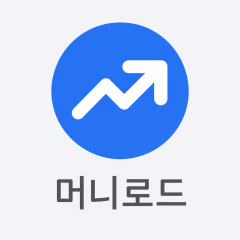
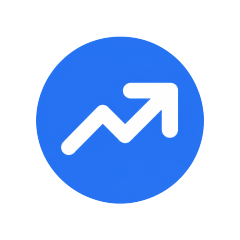
feat(news): 기본 썸네일을 투명배경 로고만으로 교체 (RFC 0006 §4-1-1)
원본을 그대로 줄여 넣었더니 밝은 회색 배경이 이미지에 구워진 채 들어가
다크 모드에서도 밝은 사각형으로 보였고, 아래쪽 "머니로드" 워드마크까지
78px 칸에 눌려 들어갔다. 배경을 투명으로, 로고 마크만, 정중앙에 오도록
다시 만들었다.

기존 에셋 재활용을 먼저 검토했으나 android-icon-foreground.png는 흰색
로고라 밝은 배경에서 보이지 않아 쓸 수 없었다. 원본에서 직접 추출했다.

단순 색상 제거는 쓸 수 없었다. 원 안의 흰 화살표(#FFFFFF)와 배경(#F3F4F8)이
너무 가까워 화살표까지 반투명해지기 때문이다. 그래서 반지름으로 나눴다 —
92% 안쪽은 알파를 건드리지 않아 화살표를 보호하고, 그 바깥에서만 배경색과의
색거리로 알파를 계산해 원본의 안티에일리어싱을 그대로 살렸다. 아래 글씨는
원의 외접 정사각형으로 크롭하면서 자동으로 빠진다(원은 y≤831, 글씨는 y≥919).

검증: 네 모서리 알파 0, 여백 좌우상하 36/36/36/36(정중앙), 흰 화살표 알파
255, 원 테두리 알파 147(계단 없음), 전체의 51%가 완전 투명. 50,253 → 32,489B.

배경이 투명해지면서 다크 모드 문제도 함께 해소됐다. 칸 배경은 NewsThumb의
t.bgSubtle이 테마에 따라 그린다.

Changed region(s): [[0.1458, 0.0875, 0.875, 0.875]]

diff --git a/docs/rfcs/0006-news-thumbnail-default-and-upload.md b/docs/rfcs/0006-news-thumbnail-default-and-upload.md
@@ -149,15 +149,49 @@ if (thumbnailBucket && ogImage) {
 - 배치(완료): `apps/native/assets/images/news-thumbnail-default.png`
   - 사용자 예상대로 **앱 아이콘과 같은 폴더가 이미 존재**한다 (`icon.png`, `splash-icon.png`, `android-icon-foreground.png` 등). 새로 만들 필요 없었다.
   - 폴더의 기존 파일이 전부 kebab-case라 이름을 맞췄다. → **Q3**
-- **축소 완료 (Q2 확정에 따라)** — 자동수집 썸네일과 같은 `Jimp.cover(240, 240)`:
+- **가공 완료** — §4-1-1 참조:
 
   | | 크기 | 용량 |
   |---|---|---|
   | 원본 | 1254 × 1254 | 880,804 B |
-  | **번들본** | **240 × 240** | **50,253 B** (−94.3%) |
+  | **번들본** | **240 × 240** | **32,489 B** (−96.3%) |
 
-  정사각 원본이라 `cover`에서 **잘림이 발생하지 않았다**(§3-2 규격과 동일 비율). 표시칸 78px 기준 3배 밀도(234px)를 덮는다.
-- 이미지 내용: 밝은 회색 배경 + 파란 원형 상승 화살표 + "머니로드" 워드마크. **배경이 밝은 색으로 고정**이라 다크 모드에서도 밝은 사각형으로 보인다(브랜드 자산 원본을 그대로 쓴 결과 — 의도된 것인지는 사용자 판단).
+  표시칸 78px 기준 3배 밀도(234px)를 덮는다.
+
+### 4-1-1. 로고만 투명배경으로 (2026-07-28, 팀장님 지시)
+
+초안은 원본을 그대로 `Jimp.cover(240,240)`로 줄여 넣었다. 그 결과 **밝은 회색 배경이 이미지에 구워진 채** 들어가 다크 모드에서도 밝은 사각형으로 보였고, 아래쪽 "머니로드" 워드마크까지 78px 칸에 눌려 들어갔다.
+
+**팀장님 지시**: 배경을 투명으로, **로고 마크만**(아래 글씨 제외), 정사각 칸의 **완전 정중앙**에.
+
+먼저 기존 에셋 재활용을 검토했으나 `android-icon-foreground.png`는 **흰색 로고**라 밝은 배경에서 보이지 않아 쓸 수 없었다. 원본에서 직접 추출했다.
+
+**측정값** (Jimp로 원본 스캔):
+
+```
+배경색           #F3F4F8
+로고 원          중심 (626.5, 474.0)  지름 718px
+"머니로드" 글씨   y 919 ~ 1093        ← 원(y ≤ 831)과 완전히 분리 → 크롭으로 제거
+```
+
+**추출 방법** — 단순 색상 제거(배경색과 같은 픽셀을 투명화)는 쓸 수 없다. 원 안의 **흰 화살표(#FFFFFF)와 배경(#F3F4F8)이 너무 가까워** 화살표까지 반투명해지기 때문이다. 그래서 반지름 기준으로 나눴다:
+
+1. 원의 외접 정사각형으로 크롭 (글씨 자동 제외)
+2. **반지름 92% 안쪽은 알파를 건드리지 않는다** — 흰 화살표 보호
+3. 92% 바깥에서만 배경색과의 색거리로 알파 계산 — 원본의 안티에일리어싱을 그대로 살려 테두리가 매끄럽다
+4. 캔버스의 70% 지름으로 축소해 240×240 투명 캔버스 정중앙에 합성
+
+**검증** (출력 파일 재스캔):
+
+| 항목 | 값 |
+|---|---|
+| 네 모서리 알파 | `0` `0` `0` `0` (완전 투명) |
+| 여백 좌·우·상·하 | **36 / 36 / 36 / 36** — 정중앙 |
+| 흰 화살표 알파 | 255 (선명) |
+| 원 테두리 알파 | 147 (안티에일리어싱 유지) |
+| 완전 투명 비율 | 51.0% |
+
+**부수 효과**: 배경이 투명해져 **다크 모드 문제가 함께 해소**됐다. 초안이 남긴 우려(밝은 사각형)가 사라지고, 칸 배경은 `NewsThumb`의 `t.bgSubtle`이 테마에 따라 그린다. → **Q15**
 
 ### 4-2. 어디서 폴백을 붙이나 — 두 가지 안
 
@@ -474,7 +508,7 @@ roles/storage.objectViewer → ['allUsers']      ← 공개 읽기 설정 완료
 | ~~Q13~~ | ~~"머니로드 독점 기사 포인트"가 뭘 뜻하나?~~ | ✅ **확정: 보라색 알약 칩의 글씨만 교체.** 사용자 확답 2026-07-27 — "그 UI 그 폰트 그대로 쓰되 글씨만 '머니로드 독점'". 상세는 **§6** |
 | ~~Q14~~ | ~~목록 카드 + 상세 시트 둘 다? 비독점은 `AI 요약` 유지?~~ | ✅ **확정: 둘 다 적용.** 비독점 문구는 이후 `머니로드 요약`으로 바뀌었다 — **§6-5** |
 
-> **모든 확인 항목이 닫혔다. 구현 착수 가능.**
+| **Q15** | §4-1-1 — 로고가 투명해지면서 칸 배경은 `NewsThumb`의 `backgroundColor: t.bgSubtle`이 그린다. 이대로 **연한 회색 타일 위에 로고**로 둘까, 아니면 기본 이미지일 때는 배경도 없애 **카드 배경 위에 로고만 떠 있게** 할까? *(실제 썸네일에는 로딩 자리표시 역할이 있어 `t.bgSubtle`을 유지해야 한다)* | 타일 유지 — 실제 썸네일과 칸 모양이 같아 목록이 흔들리지 않는다 |
 
 ---
 
